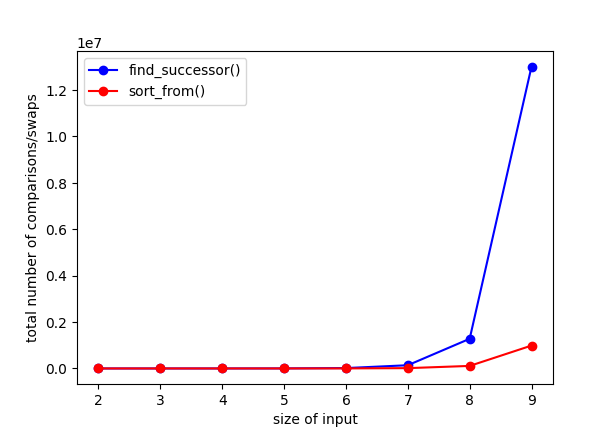
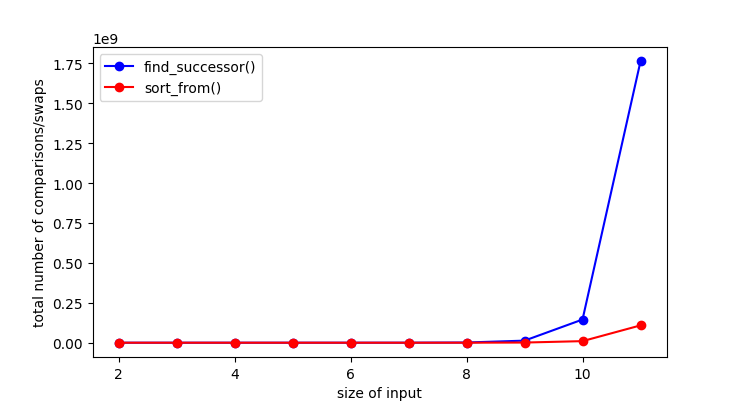
Permutations: Add timing graph.

Changed region(s): [[0.0619, 0.1197, 0.9283, 1.0], [0.0309, 0.0898, 0.4023, 0.808], [0.6189, 0.9277, 0.6498, 0.9576]]

diff --git a/permutations/index.html b/permutations/index.html
@@ -442,7 +442,14 @@ def find_successor_fast(arr, i):
         <caption>Table 4.8: The successor to <i>find_successor()</i> that operates in linear time.</caption>
         </figure>
 
-        <p>This brings down the total time complexity to <i>O(n x n!)</i>.</p>
+        <p>This brings down the total time complexity to <i>O(n x n!)</i>. The difference in time complexity between the two functions shows clearly when timing the two variants of the algorithm. Below, a graph plots the time it takes to generate all <i>n</i> permutations. The first variant uses the <i>find_successor()</i> function that is <i>O(n<sup>2</sup>)</i>. The total time taken for <i>n=11</i> was 475.7 seconds. The second variant uses <i>find_successor_fast()</i> which is <i>O(n)</i>. The total time taken for <i>n=11</i> was 235.5 seconds. The faster implementation reduces the total runtime to about half.</p>
+
+        <center>
+        <figure id="figure3">
+        <img style="display:block;" src="./analysis_timing.png" width="500px">
+        <caption>Figure 4.2: Graph showing time-to-completion for two variants of the algorithm.</caption>
+        <figure>
+        </center>
 
 		<h2 id="arewriteinc">5. A re-write in C</h2>
 
